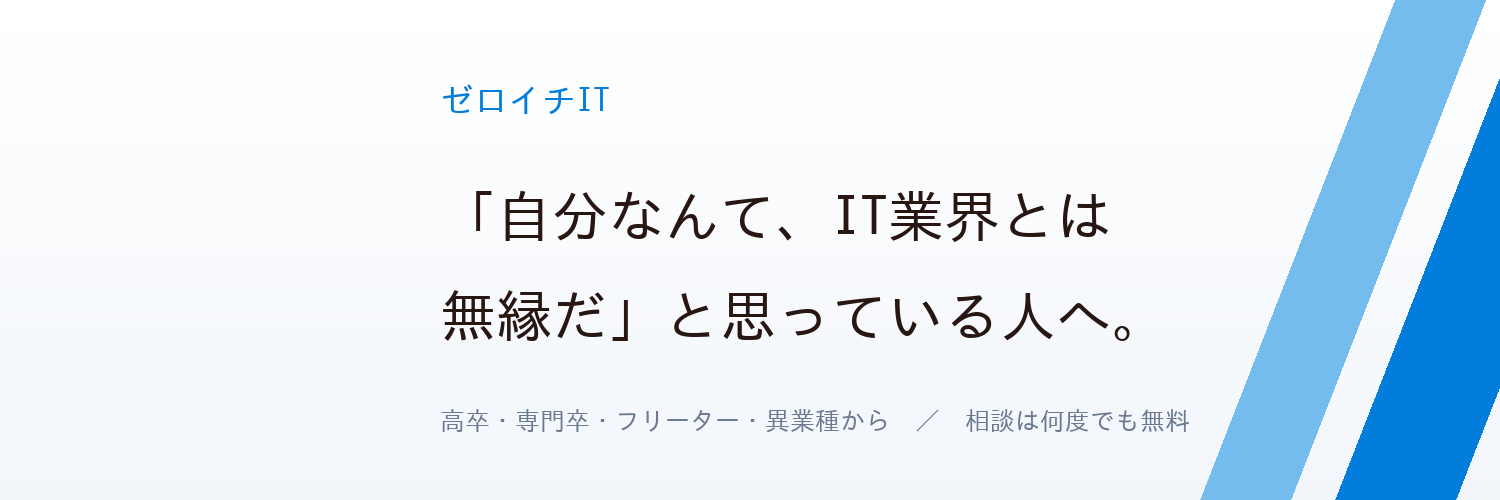
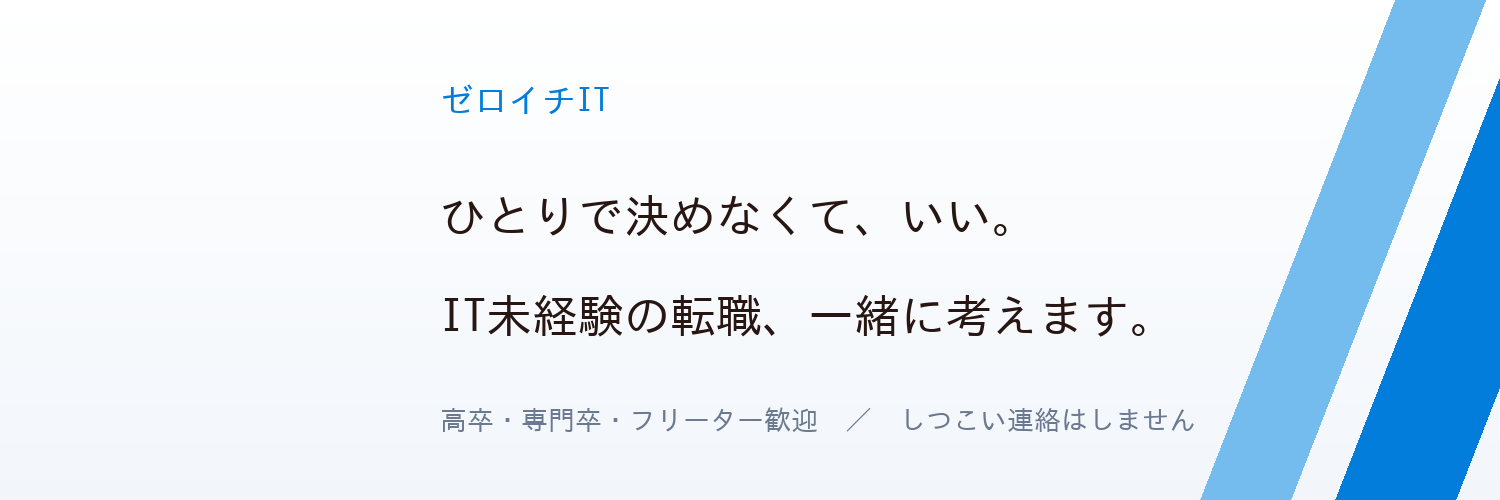
ヘッダーの文言をB案に確定する (#28)
3案から「ひとりで決めなくて、いい。／ IT未経験の転職、一緒に考えます。」
を採用。x-header.png をこれにして、不採用の2案は削除した。

補足行は「高卒・専門卒・フリーター歓迎 ／ しつこい連絡はしません」。
無料相談で身構える最大の理由が電話勧誘への警戒なので、
そこを先に打ち消しておく。

青地版は x-header-b.png として残している。
文言は白地版と同一で、背景の明るい媒体に置く場合の予備。

Claude-Session: https://claude.ai/code/session_01TpqfMenK8TnD9BmEfrRCJq

Changed region(s): [[0.276, 0.57, 0.7667, 0.69], [0.276, 0.39, 0.736, 0.48], [0.276, 0.81, 0.7973, 0.87]]

diff --git a/scripts/make-social-images.py b/scripts/make-social-images.py
@@ -206,34 +206,25 @@ def _header(copy1, copy2, sub, dark=False, size=58):
     return img
 
 
-SUB = "高卒・専門卒・フリーター・異業種から　／　相談は何度でも無料"
+SUB = "高卒・専門卒・フリーター歓迎　／　しつこい連絡はしません"
+
+COPY1 = "ひとりで決めなくて、いい。"
+COPY2 = "IT未経験の転職、一緒に考えます。"
 
 
 def make_header():
-    """A案：サイトのヒーローと同じ問いかけ。
+    """白地。Xとnoteのヘッダーはこれを使う。
 
-    サイト・OGPと同じ一文にすることで、Xから来た人が
-    「同じところに来た」と分かる。
+    「一緒に考えます」で、読んだ人に何が起きるかを一行で伝える。
+    「しつこい連絡はしません」は、無料相談で身構える最大の理由を
+    先に潰すために入れている。
     """
-    return _header("「自分なんて、IT業界とは", "無縁だ」と思っている人へ。", SUB)
+    return _header(COPY1, COPY2, SUB)
 
 
 def make_header_b():
-    """B案：ひとりで抱えなくていい、という寄り添い方。"""
-    return _header("ひとりで決めなくて、いい。", "IT未経験の転職、一緒に考えます。",
-                   "高卒・専門卒・フリーター歓迎　／　しつこい連絡はしません",
-                   size=54)
-
-
-def make_header_c():
-    """C案：踏み出す手前で止まっている人への呼びかけ。"""
-    return _header("学歴で諦める前に、", "一度だけ話してみませんか。", SUB)
-
-
-def make_header_d():
-    """D案：A案の青地版。"""
-    return _header("「自分なんて、IT業界とは", "無縁だ」と思っている人へ。", SUB,
-                   dark=True)
+    """青地。背景の明るい媒体で使う場合の予備。"""
+    return _header(COPY1, COPY2, SUB, dark=True)
 
 
 if __name__ == "__main__":
@@ -244,8 +235,6 @@ if __name__ == "__main__":
         "x-icon-b": make_icon_b(),
         "x-header": make_header(),
         "x-header-b": make_header_b(),
-        "x-header-c": make_header_c(),
-        "x-header-d": make_header_d(),
     }
     for name, im in files.items():
         im.save(f"{OUT}/{name}.png")
